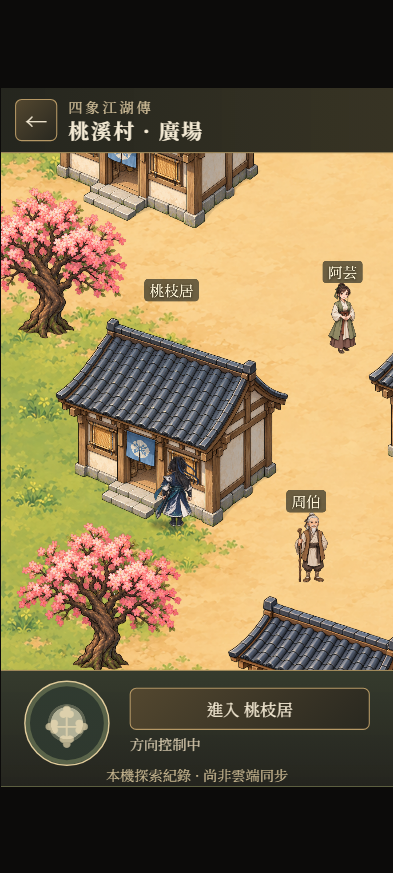
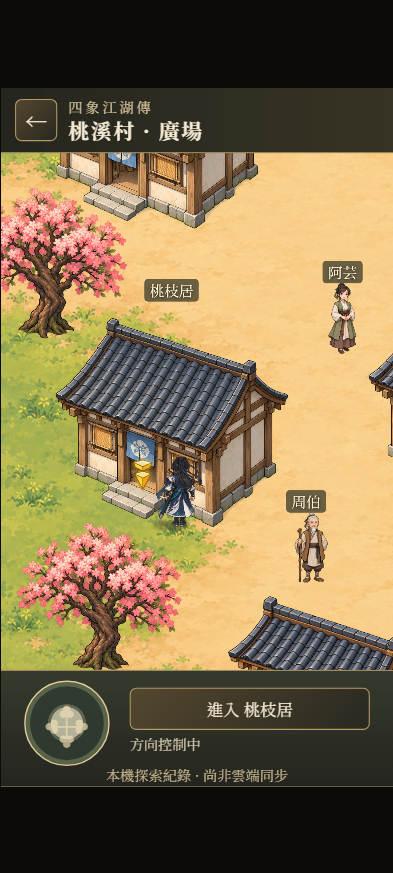
feat(exploration): walk to targets and enter marked doors on arrival

Changed region(s): [[0.3359, 0.5258, 0.5191, 0.6186]]

diff --git a/build/feature-adventure-ui.a95bb58809a9.js b/build/feature-adventure-ui.a95bb58809a9.js
@@ -912,7 +912,7 @@ function mount(root,services={}){
   const directions=new Map(),captures=new Map();
   let abort=null,active=false,generation=0,interactionGeneration=0,interactionCleanup=null;
   let state={...data.spawn,facing:'up',moving:false},frame=0,last=0,opened=false,disposed=false;
-  let route=[],destination=null,gesture=null,walkTime=0;
+  let route=[],destination=null,gesture=null,walkTime=0,arrivalTarget=null;
 
   for(const item of data.objects){
     const el=document.createElement('div');el.className='explore-object';el.dataset.object=item.id;
@@ -920,7 +920,7 @@ function mount(root,services={}){
     el.innerHTML=services.renderObject?services.renderObject(item):`<svg viewBox="0 0 ${item.width} ${item.height}" aria-hidden="true"><use href="/prototypes/exploration-corner/art.svg#${item.art}"/></svg>`;
     world.append(el);
   }
-  function cancelRoute(){route=[];destination=null;gesture=null;}
+  function cancelRoute(){route=[];destination=null;gesture=null;arrivalTarget=null;}
   function clearInput(){
     for(const [id,el] of captures){if(el.hasPointerCapture(id))el.releasePointerCapture(id);}
     captures.clear();directions.clear();analog=null;cancelRoute();state.moving=false;last=0;render();
@@ -933,8 +933,9 @@ function mount(root,services={}){
   function closeInteraction(){
     try{endInteraction();}finally{clearInput();if(active)root.focus({preventScroll:true});}
   }
-  function interact(){
-    if(!active||opened||!nearby(state))return;
+  function interact(targetId){
+    const target=typeof targetId==='string'?data.objects.find(o=>o.id===targetId&&o.interaction&&Math.hypot(state.x-o.approach.x,state.y-o.approach.y)<(o.range||145)):nearby(state);
+    if(!active||opened||!target)return;
     if(typeof services.onInteract!=='function'){status.textContent='對話尚未接通';return;}
     opened=true;clearInput();const token=generation,interactionToken=++interactionGeneration;
     const close=()=>{
@@ -942,7 +943,7 @@ function mount(root,services={}){
       closeInteraction();
     };
     try{
-      const cleanup=services.onInteract({npcId:nearby(state).id,close});
+      const cleanup=services.onInteract({npcId:target.id,close});
       if(cleanup!=null&&typeof cleanup!=='function')throw new TypeError('Interaction must return synchronous cleanup');
       if(!active||token!==generation||interactionToken!==interactionGeneration||!opened)cleanup?.();else interactionCleanup=cleanup;
     }catch(error){
@@ -985,12 +986,14 @@ function mount(root,services={}){
     }catch(_){clearInput();status.textContent='座標尚未就緒，請重試';return;}
     const camera=cameraFor(state,data);
     const target={x:point.x-viewport.offsetLeft+camera.x,y:point.y-viewport.offsetTop+camera.y};
-    const npc=services.scene?data.objects.find(o=>{if(!o.interaction||(o.interaction==='talk'&&!o.solid))return false;const b=o.hitbox||{x:o.x-o.width/2,y:o.y-o.height,width:o.width,height:o.height};return target.x>=b.x&&target.x<=b.x+b.width&&target.y>=b.y&&target.y<=b.y+b.height;}):data.objects.find(o=>o.id==='npc');
-    const npcHit=npc&&target.x>=npc.x-npc.width/2&&target.x<=npc.x+npc.width/2&&target.y>=npc.y-npc.height&&target.y<=npc.y;
+    const npc=services.scene?data.objects.find(o=>{if(!o.interaction)return false;const b=o.hitbox||{x:o.x-o.width/2,y:o.y-o.height,width:o.width,height:o.height};return target.x>=b.x&&target.x<=b.x+b.width&&target.y>=b.y&&target.y<=b.y+b.height;}):data.objects.find(o=>o.id==='npc');
+    const npcHit=services.scene?!!npc:npc&&target.x>=npc.x-npc.width/2&&target.x<=npc.x+npc.width/2&&target.y>=npc.y-npc.height&&target.y<=npc.y;
     const planned=npcHit?(services.scene?findRoute(state,npc.approach,data):npcRoute(state,data)):findRoute(state,target,data);route=planned||[];
+    arrivalTarget=planned&&npcHit&&npc.autoInteract===true?npc.id:null;
     destination=route.at(-1)||null;
-    status.textContent=destination?(npcHit?'走近村民後，按招呼確認':'前往落點；再點可更改'):planned?'已在落點附近':'此處無法抵達，請另選落點';
+    status.textContent=destination?(npcHit?(npc.autoInteract?'走向入口，到達後自動進出':npc.interaction==='talk'?'走近村民後，按交談':'走近目標後，按互動'):'前往落點；再點可更改'):planned?'已在落點附近':'此處無法抵達，請另選落點';
     root.focus({preventScroll:true});render();
+    if(arrivalTarget&&!route.length){const id=arrivalTarget;arrivalTarget=null;interact(id);}
   },{signal});
   viewport.addEventListener('pointerup',e=>{captures.delete(e.pointerId);if(gesture?.id===e.pointerId)gesture=null;},{signal});
   viewport.addEventListener('pointercancel',e=>{if(gesture?.id===e.pointerId)clearInput();},{signal});
@@ -1041,7 +1044,7 @@ function mount(root,services={}){
       const held=new Set(directions.values());
       state=move(state,pointer?pointer[1]:[Number(held.has('right'))-Number(held.has('left')),Number(held.has('down'))-Number(held.has('up'))],seconds,data);
     }
-    else if(route.length){state=followRoute(state,route,seconds,data);if(!route.length){destination=null;status.textContent=nearNpc(state)?'已走近，按招呼確認':'已抵達；點地面繼續走';}}
+    else if(route.length){state=followRoute(state,route,seconds,data);if(!route.length){const id=arrivalTarget;arrivalTarget=null;destination=null;status.textContent=nearby(state)?'已走近，可按互動':'已抵達；點地面繼續走';if(id&&data.objects.some(o=>o.id===id&&Math.hypot(state.x-o.approach.x,state.y-o.approach.y)<1))interact(id);}}
     else state={...state,moving:false};
     walkTime=state.moving?walkTime+Math.min(seconds,.05):0;
     render();frame=requestAnimationFrame(tick);
@@ -1114,7 +1117,7 @@ function village(spawn){
     {id:'village-exit',name:'桃溪村口',art:'gate',x:900,y:3070,width:600,height:600,approach:{x:900,y:2960},hitbox:{x:800,y:2990,width:200,height:80},interaction:'exit-map',label:'離開桃溪村'},
     {id:'gate-left',art:'solid',x:0,y:0,width:0,height:0,solid:{x:680,y:2910,width:65,height:65}},
     {id:'gate-right',art:'solid',x:0,y:0,width:0,height:0,solid:{x:1060,y:2980,width:70,height:70}},
-    ...houses.map(h=>({...h,art:'house',width:660,height:660,sortY:h.y-65,solid:{x:h.x-260,y:h.y-370,width:520,height:305},approach:{x:h.x-30,y:h.y+40},hitbox:{x:h.x-260,y:h.y-580,width:520,height:590},interaction:'house',label:'進入 '+h.name})),
+    ...houses.map(h=>({...h,art:'house',width:660,height:660,sortY:h.y-65,solid:{x:h.x-260,y:h.y-370,width:520,height:305},approach:{x:h.x-80,y:h.y+40},hitbox:{x:h.x-120,y:h.y-240,width:240,height:350},interaction:'house',label:'進入 '+h.name})),
     ...npcs.map(n=>({...n,art:'npc',width:200,height:200,approach:{x:n.x,y:n.y+100},hitbox:{x:n.x-45,y:n.y-185,width:90,height:185},interaction:'talk',label:'交談 · '+n.name})),
     ...[[280,2810],[1520,2750],[130,1890],[1690,1710],[150,830],[1640,650]].map(([x,y],i)=>({id:'peach-'+i,art:'peach',x,y,width:480,height:600,solid:{x:x-23,y:y-50,width:46,height:50}}))
   ]};
@@ -1131,7 +1134,7 @@ function interior(id){
     {id:'wall-front-right',art:'solid',x:0,y:0,width:0,height:0,solid:{x:730,y:1110,width:350,height:310}},
     {id:'bed',art:'bed',x:layout.bed[0],y:layout.bed[1],width:430,height:430,solid:{x:layout.bed[0]-120,y:layout.bed[1]-330,width:240,height:330}},
     ...points.filter(p=>p.house===id).map((p,i)=>({...p,art:i?'desk':'chest',x:positions[i][0],y:positions[i][1],width:i?300:200,height:i?295:223,solid:{x:positions[i][0]-(i?115:70),y:positions[i][1]-(i?100:75),width:i?230:140,height:i?100:75},approach:{x:positions[i][0],y:positions[i][1]+85},interaction:'search',label:'搜尋 · '+p.name})),
-    {id:'door',art:'door',x:540,y:1390,width:220,height:125,approach:{x:540,y:1250},interaction:'exit',label:'出屋'}
+    {id:'door',art:'door',x:540,y:1390,width:220,height:125,approach:{x:540,y:1250},autoInteract:true,interaction:'exit',label:'出屋'}
   ]};
 }
 scope.FourSymbolsTaoxiContent=Object.freeze({houses,npcs,points,unlocked,available,appearance,village,interior});
@@ -1221,11 +1224,12 @@ function map(){
   bindBack(close);root.querySelector('[data-village]').addEventListener('click',()=>scene('village'));root.focus({preventScroll:true});
 }
 function objectMarkup(object){
+  const arrow=object.autoInteract?'<span class="taoxi-entry-arrow" aria-hidden="true"><svg viewBox="0 0 64 96" focusable="false"><g stroke="#a56108" stroke-width="2" stroke-linejoin="round"><path fill="#fff5a0" d="M4 10 32 2 60 10 32 23Z"/><path fill="#ffe73e" d="M4 10 32 23 32 36 9 25Z"/><path fill="#ffb81f" d="M32 23 60 10 55 25 32 36Z"/><path fill="#fff388" d="M7 46 32 37 57 46 32 59Z"/><path fill="#ffe132" d="M7 46 32 59 32 93Z"/><path fill="#f5a714" d="M32 59 57 46 32 93Z"/></g><path d="M9 10 32 5 54 11M12 46 32 40 51 46" fill="none" stroke="#fffce0" stroke-width="3" stroke-linecap="round"/></svg></span>':'';
   if(object.art==='solid')return '';
   if(object.art==='gate')return '<img src="'+asset('gate')+'" alt="">';
-  if(object.art==='house')return '<img src="'+asset('house')+'" alt=""><span class="taoxi-object-label">'+escape(object.name)+'</span>';
+  if(object.art==='house')return '<img src="'+asset('house')+'" alt=""><span class="taoxi-object-label">'+escape(object.name)+'</span>'+arrow;
   if(object.art==='npc')return '<span class="taoxi-npc-sprite" style="background-position:'+({elder:0,ayun:50,woodworker:100}[object.id])+'% 0"></span><span class="taoxi-object-label">'+escape(object.name)+'</span>';
-  if(object.art==='door')return '<span class="taoxi-door">出口</span>';
+  if(object.art==='door')return '<span class="taoxi-door">出口</span>'+arrow;
   const frames={bed:[0,0,620,624],desk:[640,0,621,610],chest:[0,624,560,623],peach:[560,610,701,637]};
   const frame=frames[object.art],clip='taoxi-frame-'+object.id;
   return '<svg class="taoxi-prop" viewBox="'+frame.join(' ')+'" style="overflow:hidden" aria-hidden="true"><defs><clipPath id="'+clip+'"><rect x="'+frame[0]+'" y="'+frame[1]+'" width="'+frame[2]+'" height="'+frame[3]+'"/></clipPath></defs><image clip-path="url(#'+clip+')" href="'+asset('props')+'" width="1261" height="1247"/></svg>';
@@ -1236,6 +1240,7 @@ function scene(id,spawn){
   if(id!=='village'&&!C.unlocked(C.houses.find(h=>h.id===id),s.chapter,s.state)){map();return;}
   stop();current=id;root.dataset.scene=id;delete root.dataset.area;
   const data=id==='village'?C.village(spawn):C.interior(id),appearance=C.appearance(s.player);
+  for(const object of data.objects)if(object.interaction==='house')object.autoInteract=C.unlocked(object,s.chapter,s.state);
   root.innerHTML=header(id==='village'?'桃溪村':data.name)+
     '<div class="explore-viewport taoxi-viewport"><div class="explore-world taoxi-world" data-world style="width:'+data.width+'px;height:'+data.height+'px">'+
     '<div class="taoxi-ground '+(id==='village'?'taoxi-village-ground':'taoxi-room-ground')+'"></div>'+

diff --git a/prototypes/exploration-corner/runtime.js b/prototypes/exploration-corner/runtime.js
@@ -21,7 +21,7 @@ function mount(root,services={}){
   const directions=new Map(),captures=new Map();
   let abort=null,active=false,generation=0,interactionGeneration=0,interactionCleanup=null;
   let state={...data.spawn,facing:'up',moving:false},frame=0,last=0,opened=false,disposed=false;
-  let route=[],destination=null,gesture=null,walkTime=0;
+  let route=[],destination=null,gesture=null,walkTime=0,arrivalTarget=null;
 
   for(const item of data.objects){
     const el=document.createElement('div');el.className='explore-object';el.dataset.object=item.id;
@@ -29,7 +29,7 @@ function mount(root,services={}){
     el.innerHTML=services.renderObject?services.renderObject(item):`<svg viewBox="0 0 ${item.width} ${item.height}" aria-hidden="true"><use href="/prototypes/exploration-corner/art.svg#${item.art}"/></svg>`;
     world.append(el);
   }
-  function cancelRoute(){route=[];destination=null;gesture=null;}
+  function cancelRoute(){route=[];destination=null;gesture=null;arrivalTarget=null;}
   function clearInput(){
     for(const [id,el] of captures){if(el.hasPointerCapture(id))el.releasePointerCapture(id);}
     captures.clear();directions.clear();analog=null;cancelRoute();state.moving=false;last=0;render();
@@ -42,8 +42,9 @@ function mount(root,services={}){
   function closeInteraction(){
     try{endInteraction();}finally{clearInput();if(active)root.focus({preventScroll:true});}
   }
-  function interact(){
-    if(!active||opened||!nearby(state))return;
+  function interact(targetId){
+    const target=typeof targetId==='string'?data.objects.find(o=>o.id===targetId&&o.interaction&&Math.hypot(state.x-o.approach.x,state.y-o.approach.y)<(o.range||145)):nearby(state);
+    if(!active||opened||!target)return;
     if(typeof services.onInteract!=='function'){status.textContent='對話尚未接通';return;}
     opened=true;clearInput();const token=generation,interactionToken=++interactionGeneration;
     const close=()=>{
@@ -51,7 +52,7 @@ function mount(root,services={}){
       closeInteraction();
     };
     try{
-      const cleanup=services.onInteract({npcId:nearby(state).id,close});
+      const cleanup=services.onInteract({npcId:target.id,close});
       if(cleanup!=null&&typeof cleanup!=='function')throw new TypeError('Interaction must return synchronous cleanup');
       if(!active||token!==generation||interactionToken!==interactionGeneration||!opened)cleanup?.();else interactionCleanup=cleanup;
     }catch(error){
@@ -94,12 +95,14 @@ function mount(root,services={}){
     }catch(_){clearInput();status.textContent='座標尚未就緒，請重試';return;}
     const camera=cameraFor(state,data);
     const target={x:point.x-viewport.offsetLeft+camera.x,y:point.y-viewport.offsetTop+camera.y};
-    const npc=services.scene?data.objects.find(o=>{if(!o.interaction||(o.interaction==='talk'&&!o.solid))return false;const b=o.hitbox||{x:o.x-o.width/2,y:o.y-o.height,width:o.width,height:o.height};return target.x>=b.x&&target.x<=b.x+b.width&&target.y>=b.y&&target.y<=b.y+b.height;}):data.objects.find(o=>o.id==='npc');
-    const npcHit=npc&&target.x>=npc.x-npc.width/2&&target.x<=npc.x+npc.width/2&&target.y>=npc.y-npc.height&&target.y<=npc.y;
+    const npc=services.scene?data.objects.find(o=>{if(!o.interaction)return false;const b=o.hitbox||{x:o.x-o.width/2,y:o.y-o.height,width:o.width,height:o.height};return target.x>=b.x&&target.x<=b.x+b.width&&target.y>=b.y&&target.y<=b.y+b.height;}):data.objects.find(o=>o.id==='npc');
+    const npcHit=services.scene?!!npc:npc&&target.x>=npc.x-npc.width/2&&target.x<=npc.x+npc.width/2&&target.y>=npc.y-npc.height&&target.y<=npc.y;
     const planned=npcHit?(services.scene?findRoute(state,npc.approach,data):npcRoute(state,data)):findRoute(state,target,data);route=planned||[];
+    arrivalTarget=planned&&npcHit&&npc.autoInteract===true?npc.id:null;
     destination=route.at(-1)||null;
-    status.textContent=destination?(npcHit?'走近村民後，按招呼確認':'前往落點；再點可更改'):planned?'已在落點附近':'此處無法抵達，請另選落點';
+    status.textContent=destination?(npcHit?(npc.autoInteract?'走向入口，到達後自動進出':npc.interaction==='talk'?'走近村民後，按交談':'走近目標後，按互動'):'前往落點；再點可更改'):planned?'已在落點附近':'此處無法抵達，請另選落點';
     root.focus({preventScroll:true});render();
+    if(arrivalTarget&&!route.length){const id=arrivalTarget;arrivalTarget=null;interact(id);}
   },{signal});
   viewport.addEventListener('pointerup',e=>{captures.delete(e.pointerId);if(gesture?.id===e.pointerId)gesture=null;},{signal});
   viewport.addEventListener('pointercancel',e=>{if(gesture?.id===e.pointerId)clearInput();},{signal});
@@ -150,7 +153,7 @@ function mount(root,services={}){
       const held=new Set(directions.values());
       state=move(state,pointer?pointer[1]:[Number(held.has('right'))-Number(held.has('left')),Number(held.has('down'))-Number(held.has('up'))],seconds,data);
     }
-    else if(route.length){state=followRoute(state,route,seconds,data);if(!route.length){destination=null;status.textContent=nearNpc(state)?'已走近，按招呼確認':'已抵達；點地面繼續走';}}
+    else if(route.length){state=followRoute(state,route,seconds,data);if(!route.length){const id=arrivalTarget;arrivalTarget=null;destination=null;status.textContent=nearby(state)?'已走近，可按互動':'已抵達；點地面繼續走';if(id&&data.objects.some(o=>o.id===id&&Math.hypot(state.x-o.approach.x,state.y-o.approach.y)<1))interact(id);}}
     else state={...state,moving:false};
     walkTime=state.moving?walkTime+Math.min(seconds,.05):0;
     render();frame=requestAnimationFrame(tick);

diff --git a/js/exploration/taoxi-ui.js b/js/exploration/taoxi-ui.js
@@ -35,11 +35,12 @@ function map(){
   bindBack(close);root.querySelector('[data-village]').addEventListener('click',()=>scene('village'));root.focus({preventScroll:true});
 }
 function objectMarkup(object){
+  const arrow=object.autoInteract?'<span class="taoxi-entry-arrow" aria-hidden="true"><svg viewBox="0 0 64 96" focusable="false"><g stroke="#a56108" stroke-width="2" stroke-linejoin="round"><path fill="#fff5a0" d="M4 10 32 2 60 10 32 23Z"/><path fill="#ffe73e" d="M4 10 32 23 32 36 9 25Z"/><path fill="#ffb81f" d="M32 23 60 10 55 25 32 36Z"/><path fill="#fff388" d="M7 46 32 37 57 46 32 59Z"/><path fill="#ffe132" d="M7 46 32 59 32 93Z"/><path fill="#f5a714" d="M32 59 57 46 32 93Z"/></g><path d="M9 10 32 5 54 11M12 46 32 40 51 46" fill="none" stroke="#fffce0" stroke-width="3" stroke-linecap="round"/></svg></span>':'';
   if(object.art==='solid')return '';
   if(object.art==='gate')return '<img src="'+asset('gate')+'" alt="">';
-  if(object.art==='house')return '<img src="'+asset('house')+'" alt=""><span class="taoxi-object-label">'+escape(object.name)+'</span>';
+  if(object.art==='house')return '<img src="'+asset('house')+'" alt=""><span class="taoxi-object-label">'+escape(object.name)+'</span>'+arrow;
   if(object.art==='npc')return '<span class="taoxi-npc-sprite" style="background-position:'+({elder:0,ayun:50,woodworker:100}[object.id])+'% 0"></span><span class="taoxi-object-label">'+escape(object.name)+'</span>';
-  if(object.art==='door')return '<span class="taoxi-door">出口</span>';
+  if(object.art==='door')return '<span class="taoxi-door">出口</span>'+arrow;
   const frames={bed:[0,0,620,624],desk:[640,0,621,610],chest:[0,624,560,623],peach:[560,610,701,637]};
   const frame=frames[object.art],clip='taoxi-frame-'+object.id;
   return '<svg class="taoxi-prop" viewBox="'+frame.join(' ')+'" style="overflow:hidden" aria-hidden="true"><defs><clipPath id="'+clip+'"><rect x="'+frame[0]+'" y="'+frame[1]+'" width="'+frame[2]+'" height="'+frame[3]+'"/></clipPath></defs><image clip-path="url(#'+clip+')" href="'+asset('props')+'" width="1261" height="1247"/></svg>';
@@ -50,6 +51,7 @@ function scene(id,spawn){
   if(id!=='village'&&!C.unlocked(C.houses.find(h=>h.id===id),s.chapter,s.state)){map();return;}
   stop();current=id;root.dataset.scene=id;delete root.dataset.area;
   const data=id==='village'?C.village(spawn):C.interior(id),appearance=C.appearance(s.player);
+  for(const object of data.objects)if(object.interaction==='house')object.autoInteract=C.unlocked(object,s.chapter,s.state);
   root.innerHTML=header(id==='village'?'桃溪村':data.name)+
     '<div class="explore-viewport taoxi-viewport"><div class="explore-world taoxi-world" data-world style="width:'+data.width+'px;height:'+data.height+'px">'+
     '<div class="taoxi-ground '+(id==='village'?'taoxi-village-ground':'taoxi-room-ground')+'"></div>'+

diff --git a/js/exploration/taoxi-content.js b/js/exploration/taoxi-content.js
@@ -39,7 +39,7 @@ function village(spawn){
     {id:'village-exit',name:'桃溪村口',art:'gate',x:900,y:3070,width:600,height:600,approach:{x:900,y:2960},hitbox:{x:800,y:2990,width:200,height:80},interaction:'exit-map',label:'離開桃溪村'},
     {id:'gate-left',art:'solid',x:0,y:0,width:0,height:0,solid:{x:680,y:2910,width:65,height:65}},
     {id:'gate-right',art:'solid',x:0,y:0,width:0,height:0,solid:{x:1060,y:2980,width:70,height:70}},
-    ...houses.map(h=>({...h,art:'house',width:660,height:660,sortY:h.y-65,solid:{x:h.x-260,y:h.y-370,width:520,height:305},approach:{x:h.x-30,y:h.y+40},hitbox:{x:h.x-260,y:h.y-580,width:520,height:590},interaction:'house',label:'進入 '+h.name})),
+    ...houses.map(h=>({...h,art:'house',width:660,height:660,sortY:h.y-65,solid:{x:h.x-260,y:h.y-370,width:520,height:305},approach:{x:h.x-80,y:h.y+40},hitbox:{x:h.x-120,y:h.y-240,width:240,height:350},interaction:'house',label:'進入 '+h.name})),
     ...npcs.map(n=>({...n,art:'npc',width:200,height:200,approach:{x:n.x,y:n.y+100},hitbox:{x:n.x-45,y:n.y-185,width:90,height:185},interaction:'talk',label:'交談 · '+n.name})),
     ...[[280,2810],[1520,2750],[130,1890],[1690,1710],[150,830],[1640,650]].map(([x,y],i)=>({id:'peach-'+i,art:'peach',x,y,width:480,height:600,solid:{x:x-23,y:y-50,width:46,height:50}}))
   ]};
@@ -56,7 +56,7 @@ function interior(id){
     {id:'wall-front-right',art:'solid',x:0,y:0,width:0,height:0,solid:{x:730,y:1110,width:350,height:310}},
     {id:'bed',art:'bed',x:layout.bed[0],y:layout.bed[1],width:430,height:430,solid:{x:layout.bed[0]-120,y:layout.bed[1]-330,width:240,height:330}},
     ...points.filter(p=>p.house===id).map((p,i)=>({...p,art:i?'desk':'chest',x:positions[i][0],y:positions[i][1],width:i?300:200,height:i?295:223,solid:{x:positions[i][0]-(i?115:70),y:positions[i][1]-(i?100:75),width:i?230:140,height:i?100:75},approach:{x:positions[i][0],y:positions[i][1]+85},interaction:'search',label:'搜尋 · '+p.name})),
-    {id:'door',art:'door',x:540,y:1390,width:220,height:125,approach:{x:540,y:1250},interaction:'exit',label:'出屋'}
+    {id:'door',art:'door',x:540,y:1390,width:220,height:125,approach:{x:540,y:1250},autoInteract:true,interaction:'exit',label:'出屋'}
   ]};
 }
 scope.FourSymbolsTaoxiContent=Object.freeze({houses,npcs,points,unlocked,available,appearance,village,interior});

diff --git a/build/feature-adventure.f91c25eec12f.css b/build/feature-adventure.f91c25eec12f.css
@@ -226,3 +226,7 @@
 .taoxi-npc-sprite{display:block;width:100%;height:100%;background:url('../assets/exploration/taoxi-v1/villagers.webp') 0 0/300% 100% no-repeat}
 
 #explorationPage[data-gate-cutaway="true"] [data-object="village-exit"]{opacity:.25}
+.taoxi-entry-arrow{position:absolute;left:38%;bottom:130px;width:56px;height:84px;opacity:.9;filter:drop-shadow(0 3px 2px #573407aa) drop-shadow(0 0 5px #ffdf38);pointer-events:none;transform:translateX(-50%);animation:taoxi-entry-float 1.2s ease-in-out infinite alternate}
+[data-object="door"] .taoxi-entry-arrow{bottom:30px;left:50%}
+@keyframes taoxi-entry-float{from{transform:translate(-50%,-10px)}to{transform:translate(-50%,4px)}}
+@media(prefers-reduced-motion:reduce){.taoxi-entry-arrow{animation:none}}

diff --git a/css/taoxi-exploration.css b/css/taoxi-exploration.css
@@ -43,3 +43,7 @@
 .taoxi-npc-sprite{display:block;width:100%;height:100%;background:url('../assets/exploration/taoxi-v1/villagers.webp') 0 0/300% 100% no-repeat}
 
 #explorationPage[data-gate-cutaway="true"] [data-object="village-exit"]{opacity:.25}
+.taoxi-entry-arrow{position:absolute;left:38%;bottom:130px;width:56px;height:84px;opacity:.9;filter:drop-shadow(0 3px 2px #573407aa) drop-shadow(0 0 5px #ffdf38);pointer-events:none;transform:translateX(-50%);animation:taoxi-entry-float 1.2s ease-in-out infinite alternate}
+[data-object="door"] .taoxi-entry-arrow{bottom:30px;left:50%}
+@keyframes taoxi-entry-float{from{transform:translate(-50%,-10px)}to{transform:translate(-50%,4px)}}
+@media(prefers-reduced-motion:reduce){.taoxi-entry-arrow{animation:none}}
